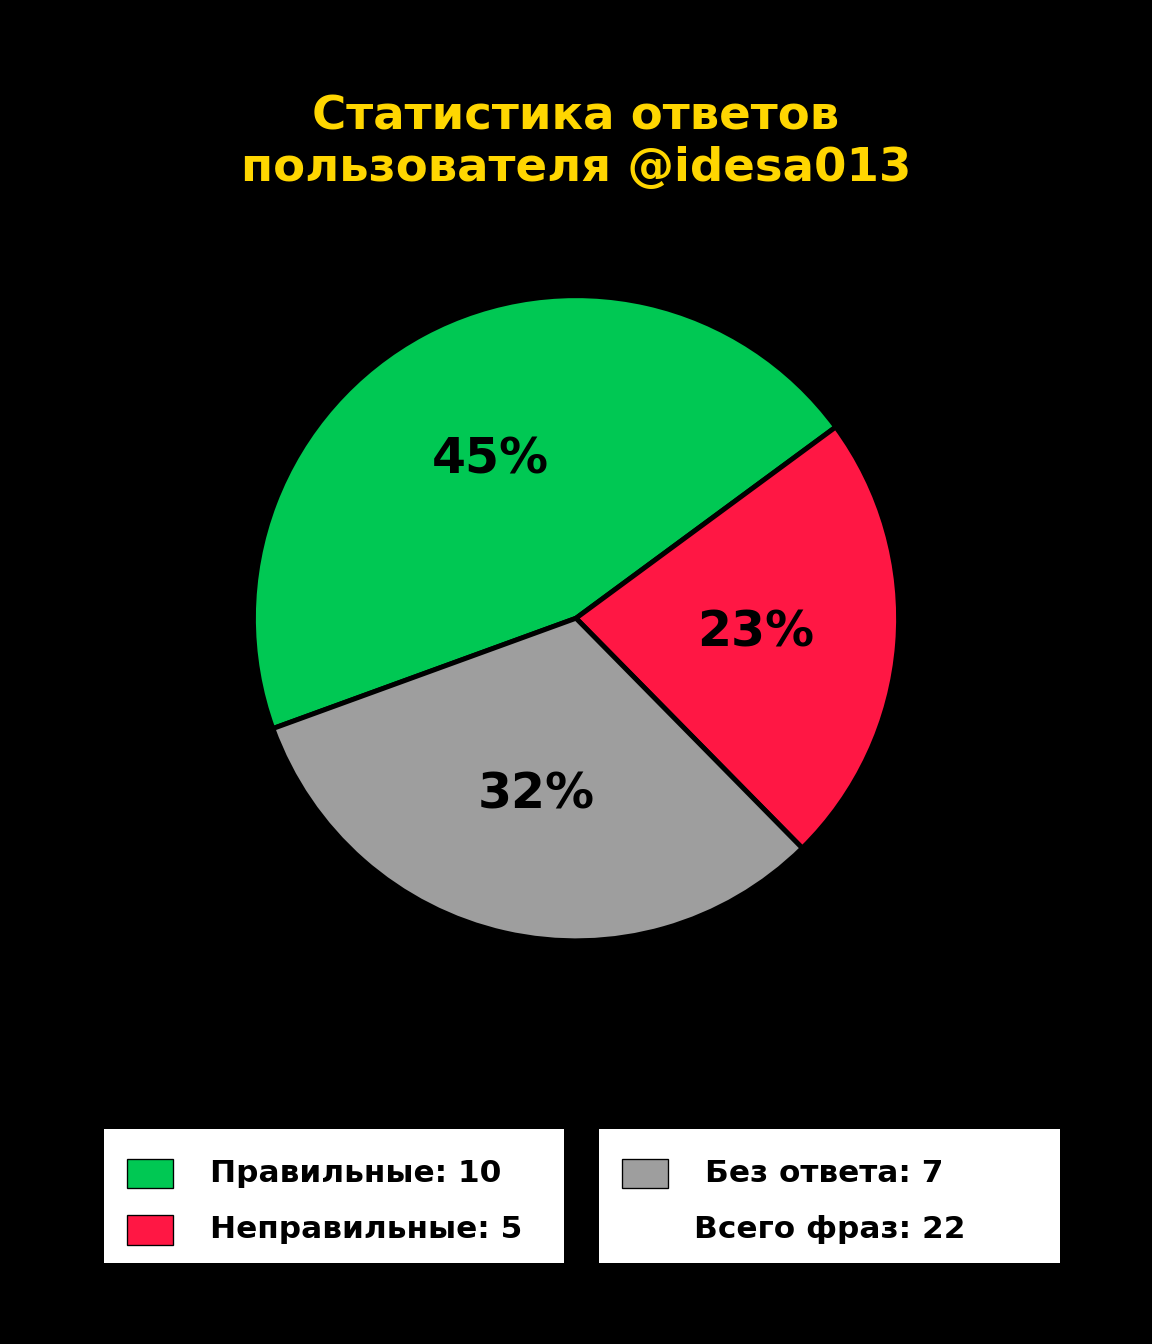
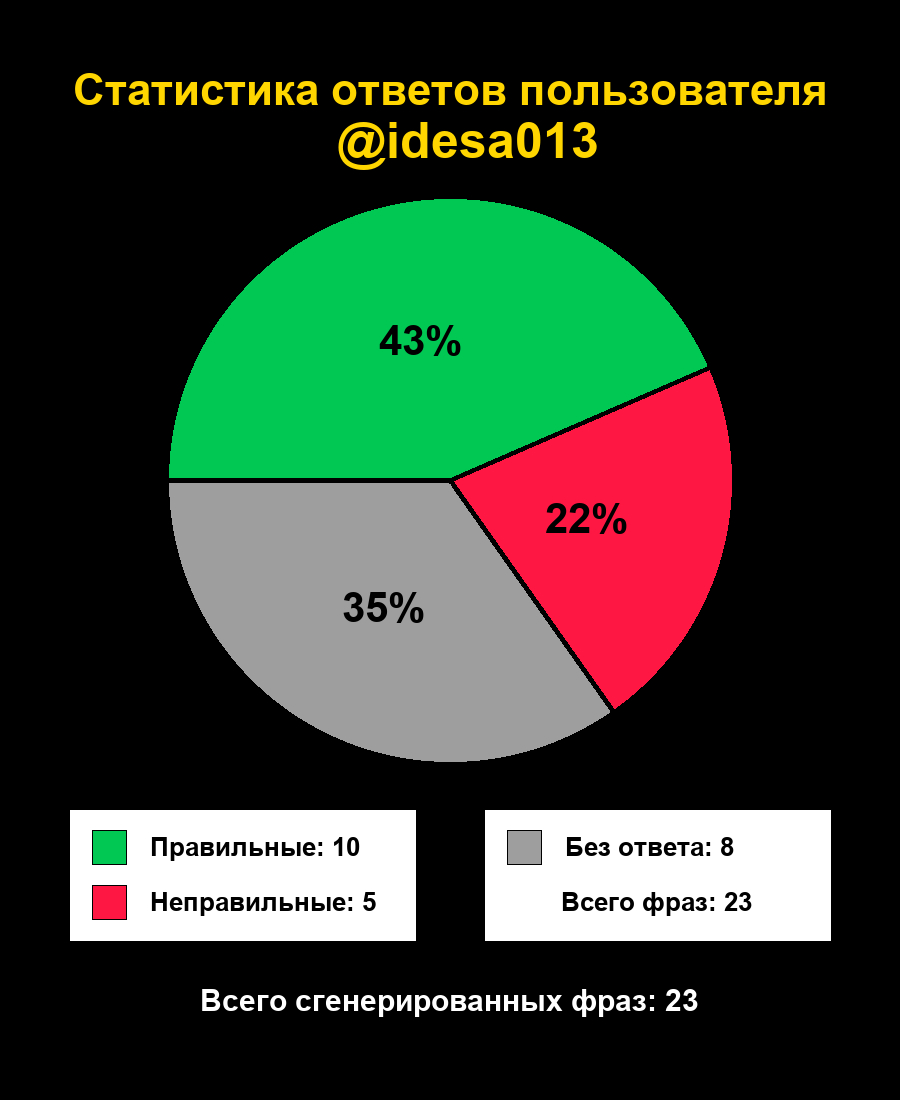
.

diff --git a/app/services/statistics_image.py b/app/services/statistics_image.py
@@ -44,6 +44,34 @@ def _draw_centered_text(
     draw.text(xy, text, font=font, fill=fill, anchor="mm")
 
 
+def draw_text_with_shadow(
+    draw,
+    position,
+    text,
+    font,
+    fill,
+    shadow_color=(0, 0, 0),
+    shadow_offset=(3, 3),
+):
+    x, y = position
+
+    # тень
+    draw.text(
+        (x + shadow_offset[0], y + shadow_offset[1]),
+        text,
+        font=font,
+        fill=shadow_color,
+    )
+
+    # основной текст
+    draw.text(
+        (x, y),
+        text,
+        font=font,
+        fill=fill,
+    )
+
+
 def _draw_box(
     draw: ImageDraw.ImageDraw,
     box: tuple[int, int, int, int],
@@ -102,23 +130,54 @@ def render_statistics_chart(
     draw = ImageDraw.Draw(image)
 
     title_font = _load_font(FONT_HINT_BOLD_PATH, 44)
+    username_font = _load_font(FONT_HINT_BOLD_PATH, 50)
     percent_font = _load_font(FONT_HINT_BOLD_PATH, 42)
-    legend_font = _load_font(FONT_HINT_BOLD_PATH, 22)
-    bottom_font = _load_font(FONT_HINT_BOLD_PATH, 24)
+    legend_font = _load_font(FONT_HINT_BOLD_PATH, 26)
+    bottom_font = _load_font(FONT_HINT_BOLD_PATH, 30)
 
     username_text = _safe_username(username)
 
-    title = f"Статистика ответов\nпользователя @{username_text}"
-    _draw_centered_text(
+    title_line = "Статистика ответов пользователя"
+    username_line = f"@{username_text}"
+
+    line_spacing = 15
+
+    # размеры строк
+    bbox1 = draw.textbbox((0, 0), title_line, font=title_font)
+    h1 = bbox1[3] - bbox1[1]
+
+    bbox2 = draw.textbbox((0, 0), username_line, font=title_font)
+    h2 = bbox2[3] - bbox2[1]
+
+    total_height = h1 + h2 + line_spacing
+
+    start_y = 110 - total_height // 2
+
+    # --- первая строка ---
+    w1 = bbox1[2] - bbox1[0]
+    x1 = WIDTH // 2 - w1 // 2
+
+    draw.text(
+        (x1, start_y),
+        title_line,
+        font=title_font,
+        fill=YELLOW,
+    )
+
+    # --- вторая строка ---
+    w2 = bbox2[2] - bbox2[0]
+    x2 = WIDTH // 2 - w2 // 2
+
+    draw_text_with_shadow(
         draw,
-        (WIDTH // 2, 95),
-        title,
-        title_font,
+        (x2, start_y + h1 + line_spacing),
+        username_line,
+        username_font if "username_font" in locals() else title_font,
         YELLOW,
     )
 
     # Круг
-    center = (WIDTH // 2, 430)
+    center = (WIDTH // 2, 480)
     radius = 285
     pie_bbox = (
         center[0] - radius,
@@ -159,8 +218,8 @@ def render_statistics_chart(
             start_angle = end_angle
 
     # Нижние белые блоки
-    left_box = (70, 805, 415, 930)
-    right_box = (485, 805, 830, 930)
+    left_box = (70, 810, 415, 940)
+    right_box = (485, 810, 830, 940)
 
     _draw_box(draw, left_box, WHITE)
     _draw_box(draw, right_box, WHITE)

diff --git a/app/handlers/statistics.py b/app/handlers/statistics.py
@@ -9,10 +9,10 @@ def register_statistics_handlers(bot: TeleBot) -> None:
     @bot.message_handler(commands=["statistics"])
     def handle_statistics(message) -> None:
         try:
-            bot.send_message(message.chat.id, "statistics: start")
+            # bot.send_message(message.chat.id, "statistics: start")
 
             stats = get_user_stats(message.from_user.id)
-            bot.send_message(message.chat.id, f"statistics: stats ok -> {stats}")
+            # bot.send_message(message.chat.id, f"statistics: stats ok -> {stats}")
 
             chart_path = render_statistics_chart(
                 user_id=message.from_user.id,
@@ -21,7 +21,7 @@ def register_statistics_handlers(bot: TeleBot) -> None:
                 right=stats["right"],
                 wrong=stats["wrong"],
             )
-            bot.send_message(message.chat.id, f"statistics: image ok -> {chart_path}")
+            # bot.send_message(message.chat.id, f"statistics: image ok -> {chart_path}")
 
             with open(chart_path, "rb") as photo:
                 bot.send_photo(
